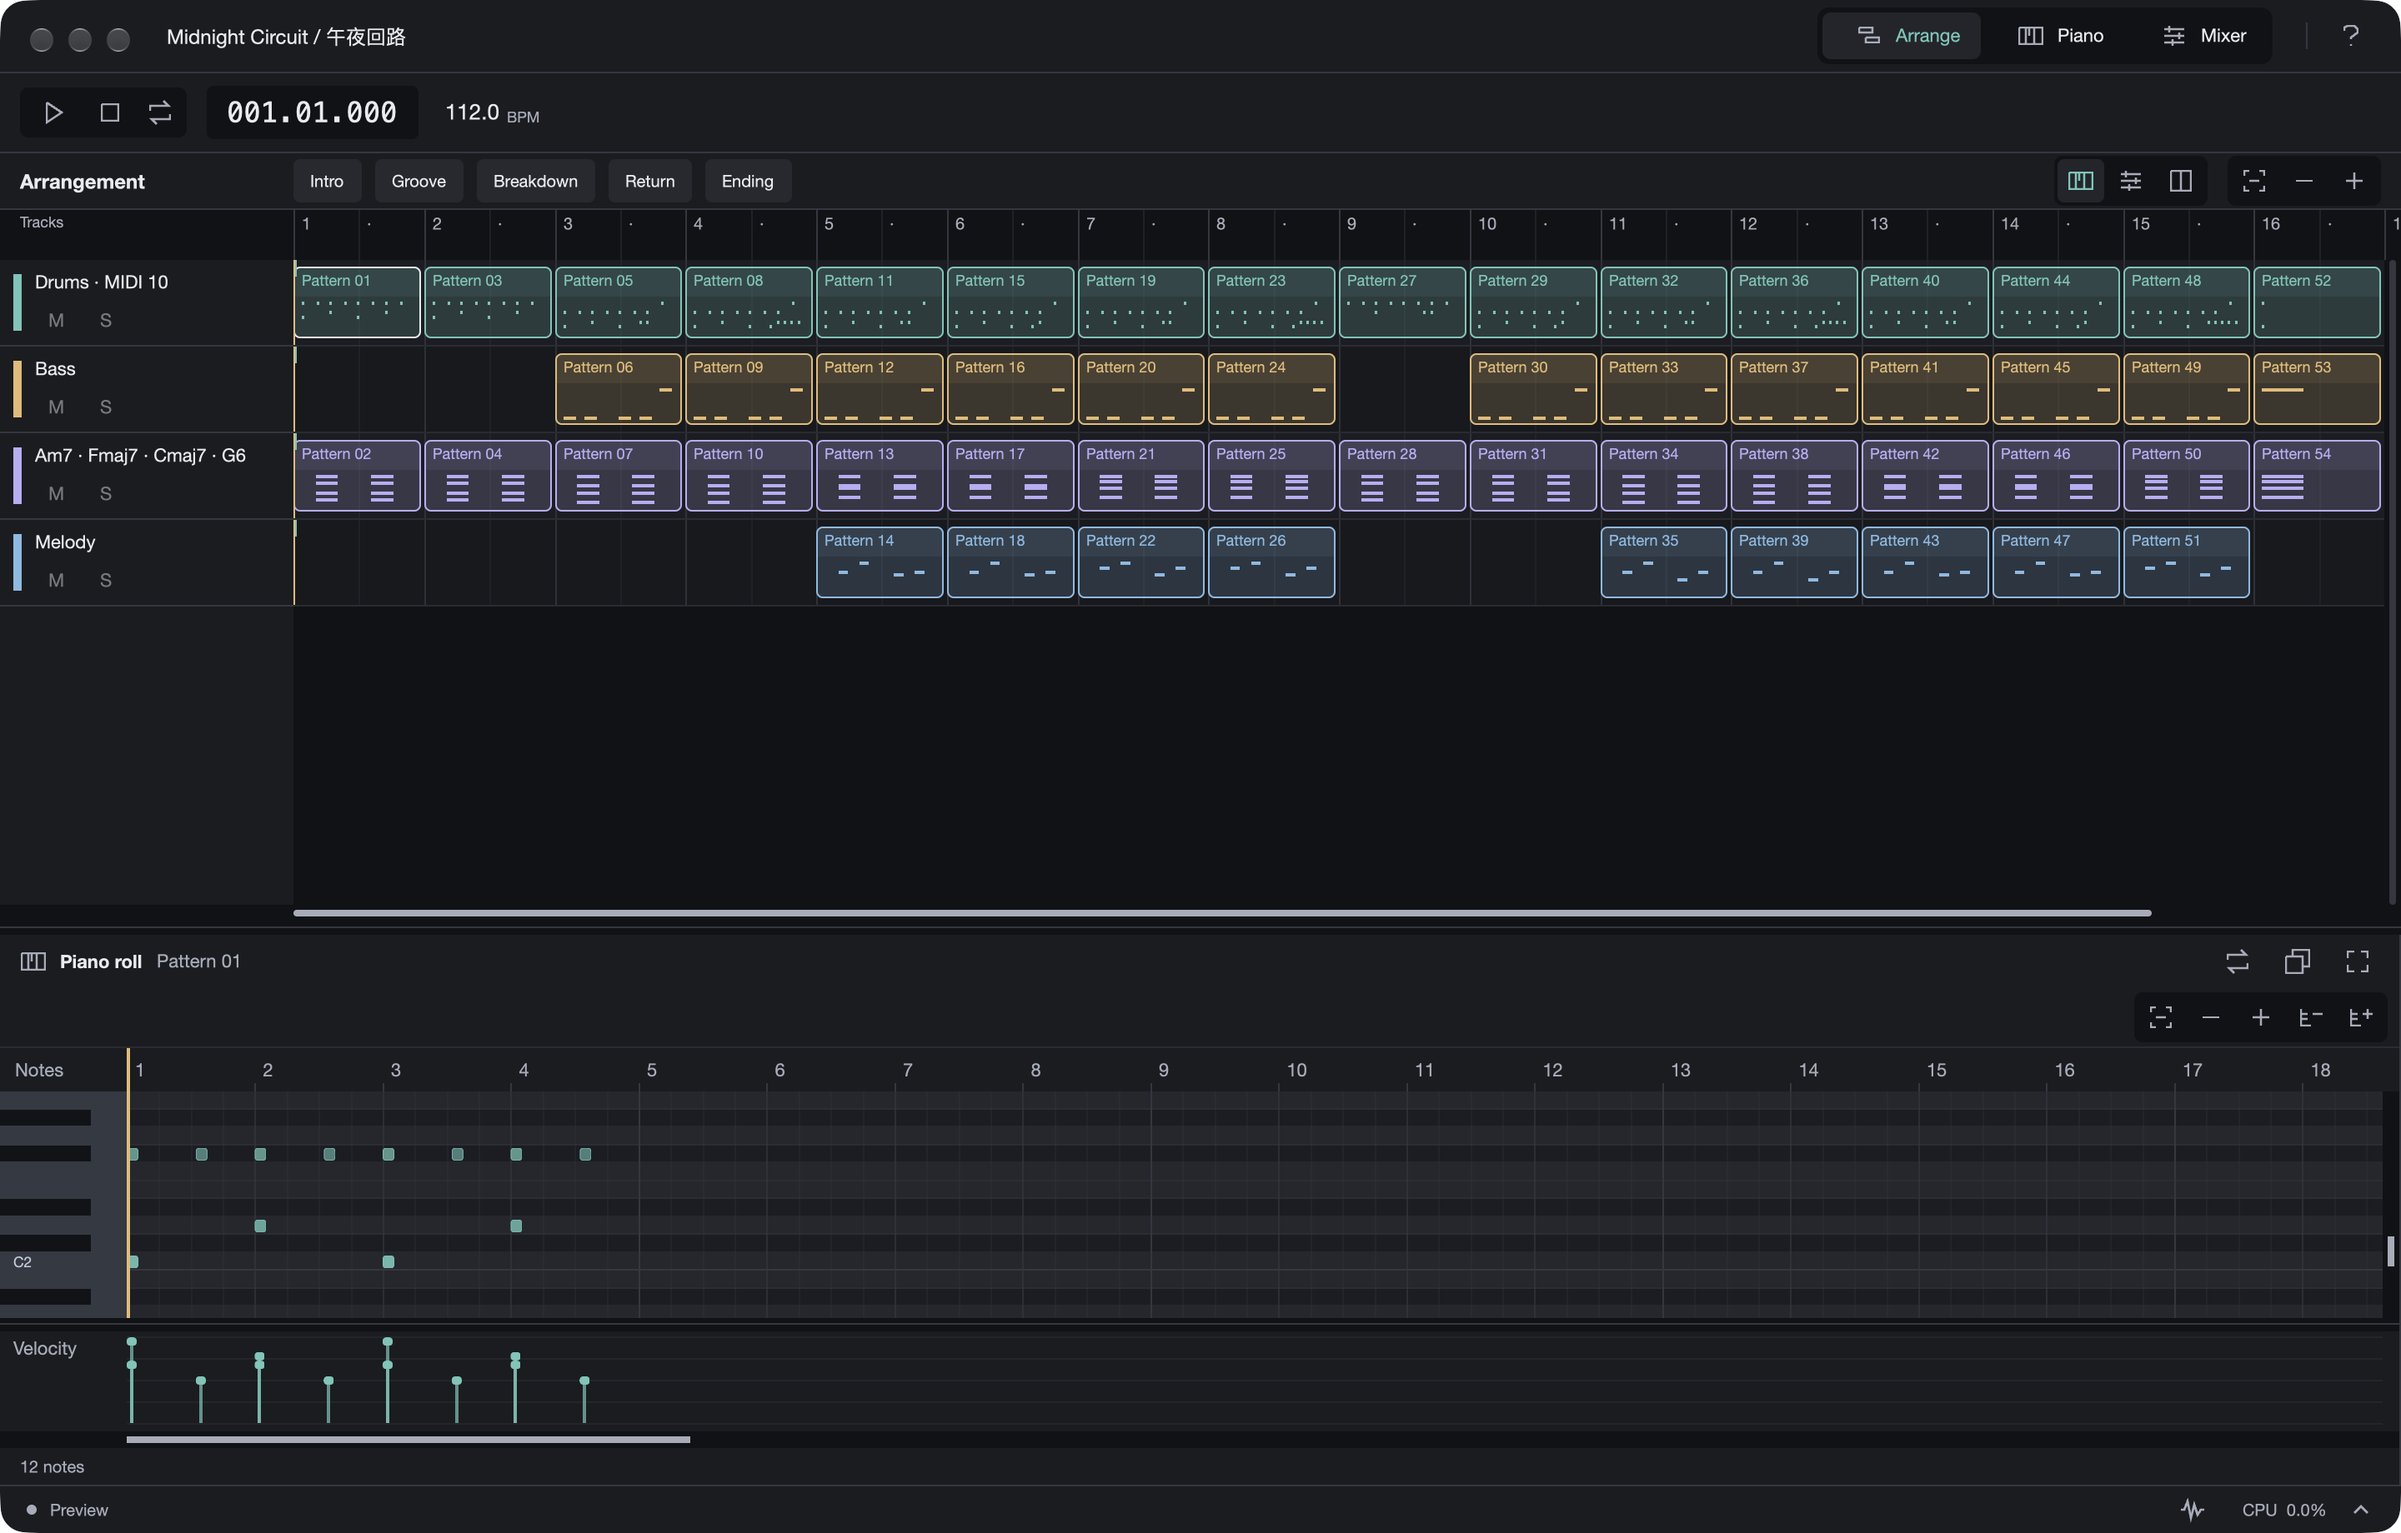
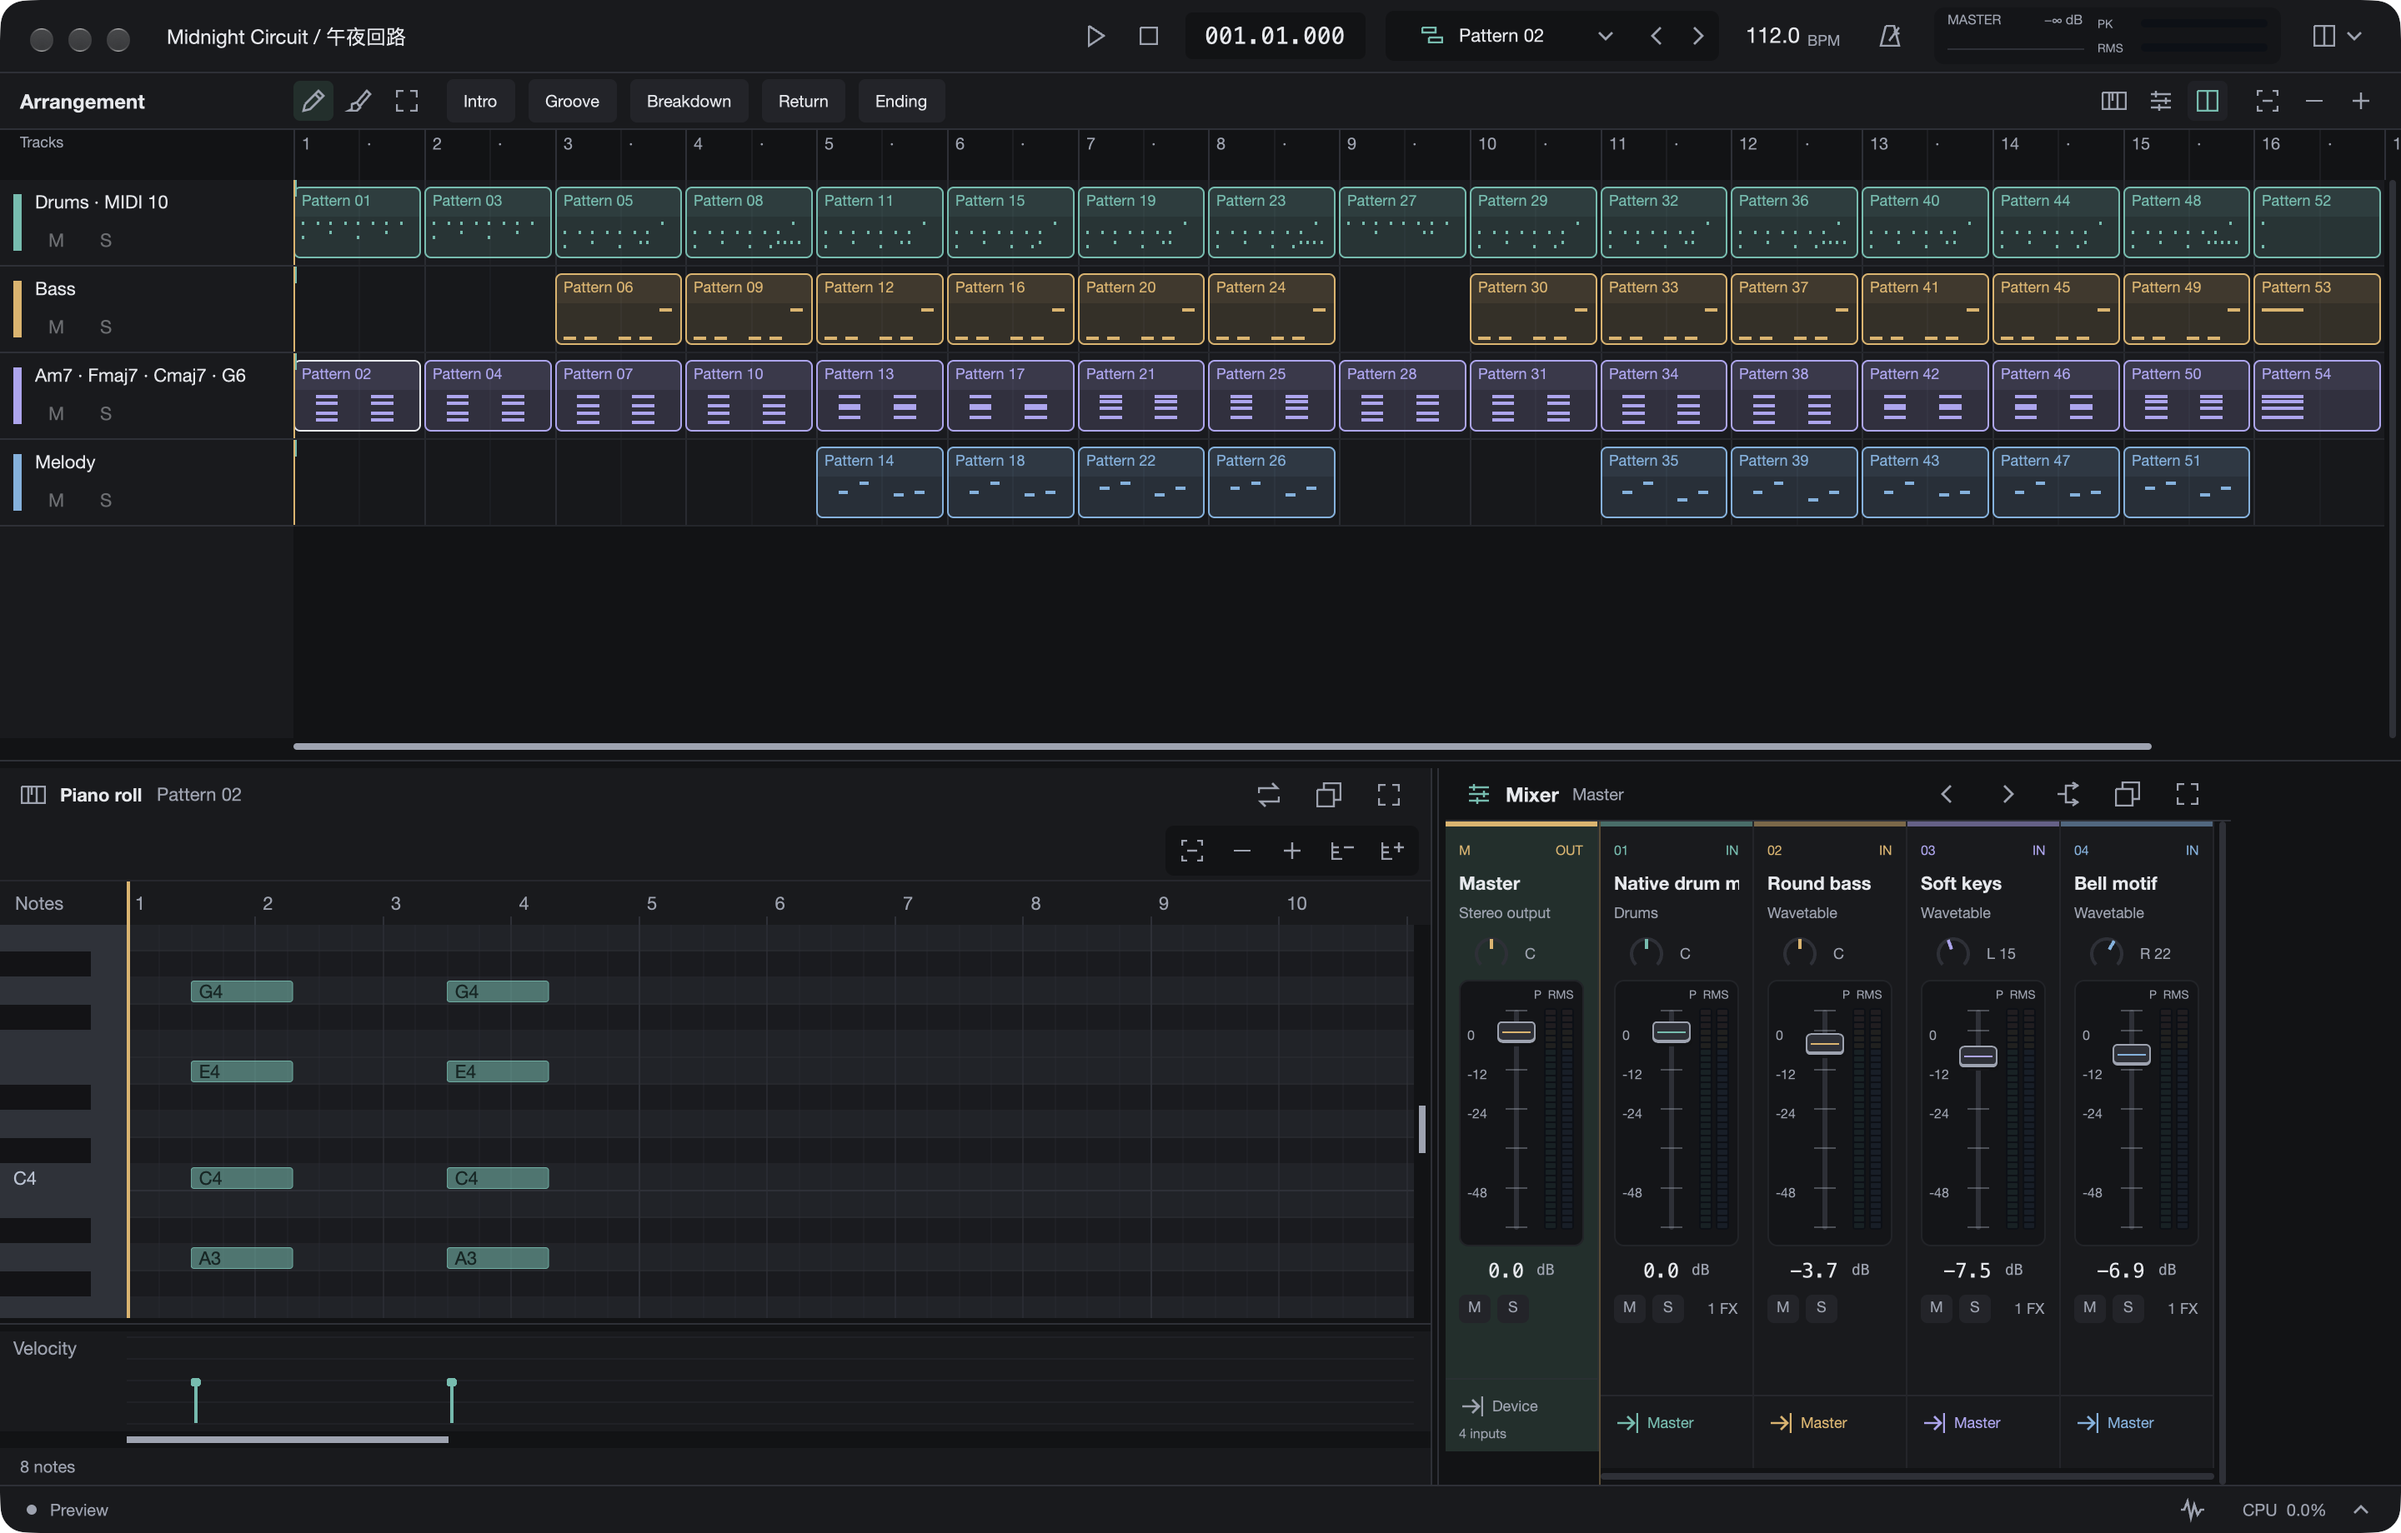
fix(ci): stabilize VST3 checks and refresh README screenshots

diff --git a/apps/preview/src/capture_presentation.rs b/apps/preview/src/capture_presentation.rs
@@ -1,0 +1,22 @@
+//! Opt-in README framing of the real workspace; only view preferences change.
+use crate::{ui::Preview, workspace_layout::DockMode};
+use gpui::*;
+
+pub fn prepare(view: &mut Preview, cx: &mut Context<Preview>) {
+    if std::env::var("OXITONE_PREVIEW_CAPTURE_LAYOUT").as_deref() != Ok("readme") {
+        return;
+    }
+    let pattern = view.project.as_ref().and_then(|project| {
+        crate::pattern_navigation::patterns(project)
+            .get(1)
+            .map(|pattern| pattern.id.clone())
+    });
+    if let Some(pattern) = pattern {
+        view.select_pattern(&pattern);
+    }
+    view.document.patterns_open = false;
+    view.workspace.dock_open = true;
+    view.workspace.dock = DockMode::Split;
+    view.workspace.editor_height = 430.;
+    cx.notify();
+}

diff --git a/apps/preview/src/capture.rs b/apps/preview/src/capture.rs
@@ -90,6 +90,9 @@ pub fn schedule(window: &Window, cx: &mut Context<Preview>) {
             if current.is_some() {
                 ready_frames += 1;
             }
+            if ready_frames == 1 {
+                this.update(cx, crate::capture_presentation::prepare).unwrap();
+            }
             if ready_frames == 1 && (daw || navigation || transport) {
                 this.update(cx, |this, cx| {
                     assert!(!this.workspace.dock_open && this.document.patterns_open);

diff --git a/apps/preview/src/main.rs b/apps/preview/src/main.rs
@@ -34,6 +34,7 @@ mod capture_note_clipboard;
 mod capture_piano;
 mod capture_plugin_install;
 mod capture_pointer;
+mod capture_presentation;
 mod capture_samples;
 mod capture_studio;
 #[cfg(target_os = "macos")]

diff --git a/assets/screenshots/README.md b/assets/screenshots/README.md
@@ -1,7 +1,8 @@
 # Native preview screenshots
 
 `preview-dark.png` and `preview-light.png` show the real GPUI window running
-[Midnight Circuit](../../examples/drum-machine), with the arrangement and piano roll.
+[Midnight Circuit](../../examples/drum-machine), with titlebar transport, arrangement,
+chord piano roll and mixer. Captured from the current native app on 2026-10-08.
 The README selects the matching image for the reader's color scheme.
 
 Recreate them from the repository root after `pnpm install --frozen-lockfile`,
@@ -12,14 +13,18 @@ node scripts/build-preview.mjs --debug
 mkdir -p target/readme-screenshots
 OXITONE_PREVIEW_CAPTURE="$PWD/target/readme-screenshots/preview-dark.png" \
   OXITONE_PREVIEW_CAPTURE_SIZE=1440x920 OXITONE_PREVIEW_APPEARANCE=dark \
+  OXITONE_PREVIEW_CAPTURE_LAYOUT=readme \
   node packages/cli/dist/index.js preview examples/drum-machine/src/preview.ts \
   --no-watch --viewer "target/debug/Oxitone Preview.app"
 OXITONE_PREVIEW_CAPTURE="$PWD/target/readme-screenshots/preview-light.png" \
   OXITONE_PREVIEW_CAPTURE_SIZE=1440x920 OXITONE_PREVIEW_APPEARANCE=light \
+  OXITONE_PREVIEW_CAPTURE_LAYOUT=readme \
   node packages/cli/dist/index.js preview examples/drum-machine/src/preview.ts \
   --no-watch --viewer "target/debug/Oxitone Preview.app"
 ```
 
-Capture mode forces a simulated audio sink and changes only the window's appearance.
+Capture mode forces a simulated audio sink. The `readme` layout selects the second
+pattern and opens the piano/mixer dock using view preferences; source and audio data
+remain unchanged, and transport stays stopped.
 It saves the native window and closes it automatically. Inspect both PNGs before
 copying them here; these are application screenshots, with no composited UI.

diff --git a/docs/ci.md b/docs/ci.md
@@ -50,6 +50,14 @@ results and example snapshot/report JSON. Large WAVs and native binaries are not
 published as release artifacts. Hosted-runner timing is diagnostic: the jobs do not
 compare noisy virtualized measurements with the Apple M4 physical baseline.
 
+VST3 simulated-session conformance keeps worker `deadlineMisses`, load and block-time
+histograms in its reports as timing diagnostics. These graphs require background
+execution even when the caller requests direct mode. A block taking longer than its
+nominal period does not imply an underrun: the render-ahead ring can absorb it, and
+shared runners can preempt the worker. Functional gates still require zero `xruns`,
+`nanBlocks`, `queueDrops` and plugin faults, alongside exact offline PCM/routing and
+source-transaction checks. Physical performance acceptance remains a separate gate.
+
 These files establish the automation but are not evidence of a successful remote
 run. Record the first successful runs in the milestone audit after CI executes.
 Physical-device switching/unplugging, 10/60-minute sustained load, minimum macOS

diff --git a/.agents/docs/09-preview-app.md b/.agents/docs/09-preview-app.md
@@ -17,6 +17,10 @@ Engine 1.6 insertRoutes 投影为 Mixer 的输入/输出连接，标签包含当
 
 ## 定位与边界
 
+README 原生截图可通过 `OXITONE_PREVIEW_CAPTURE_LAYOUT=readme` 选择第二个 Pattern、
+关闭 Patterns 浮窗并打开 Piano/Mixer dock。该 opt-in capture 只改变视图偏好，使用
+模拟 sink、保持停止状态，不提交文档事务或修改源码/音频数据。
+
 Preview app 是 Oxitone 工程的可视化呈现器：**代码是音乐的唯一事实来源，viewer 只读**。用户可以 play/pause/stop/seek/loop，可以调整 viewer 自身的显示偏好（缩放、主题、scope 开关），但任何操作都不会反向修改代码或 authoring 数据。viewer 内不提供任何编辑能力（无拖拽音符、无画 automation、无推子写回）。
 
 与代码的同步是单向数据流：

diff --git a/README.md b/README.md
@@ -78,7 +78,7 @@ and effect panels, source automation, a pattern browser and live audio scopes.
 
 <picture>
   <source media="(prefers-color-scheme: dark)" srcset="assets/screenshots/preview-dark.png">
-  <img src="assets/screenshots/preview-light.png" alt="Oxitone native preview showing the Midnight Circuit arrangement and piano roll" width="1440">
+    <img src="assets/screenshots/preview-light.png" alt="Oxitone native preview showing titlebar transport, the Midnight Circuit arrangement, chord piano roll and mixer" width="1440">
 </picture>
 
 _Midnight Circuit in the native preview. [Screenshot details](assets/screenshots/README.md)._
